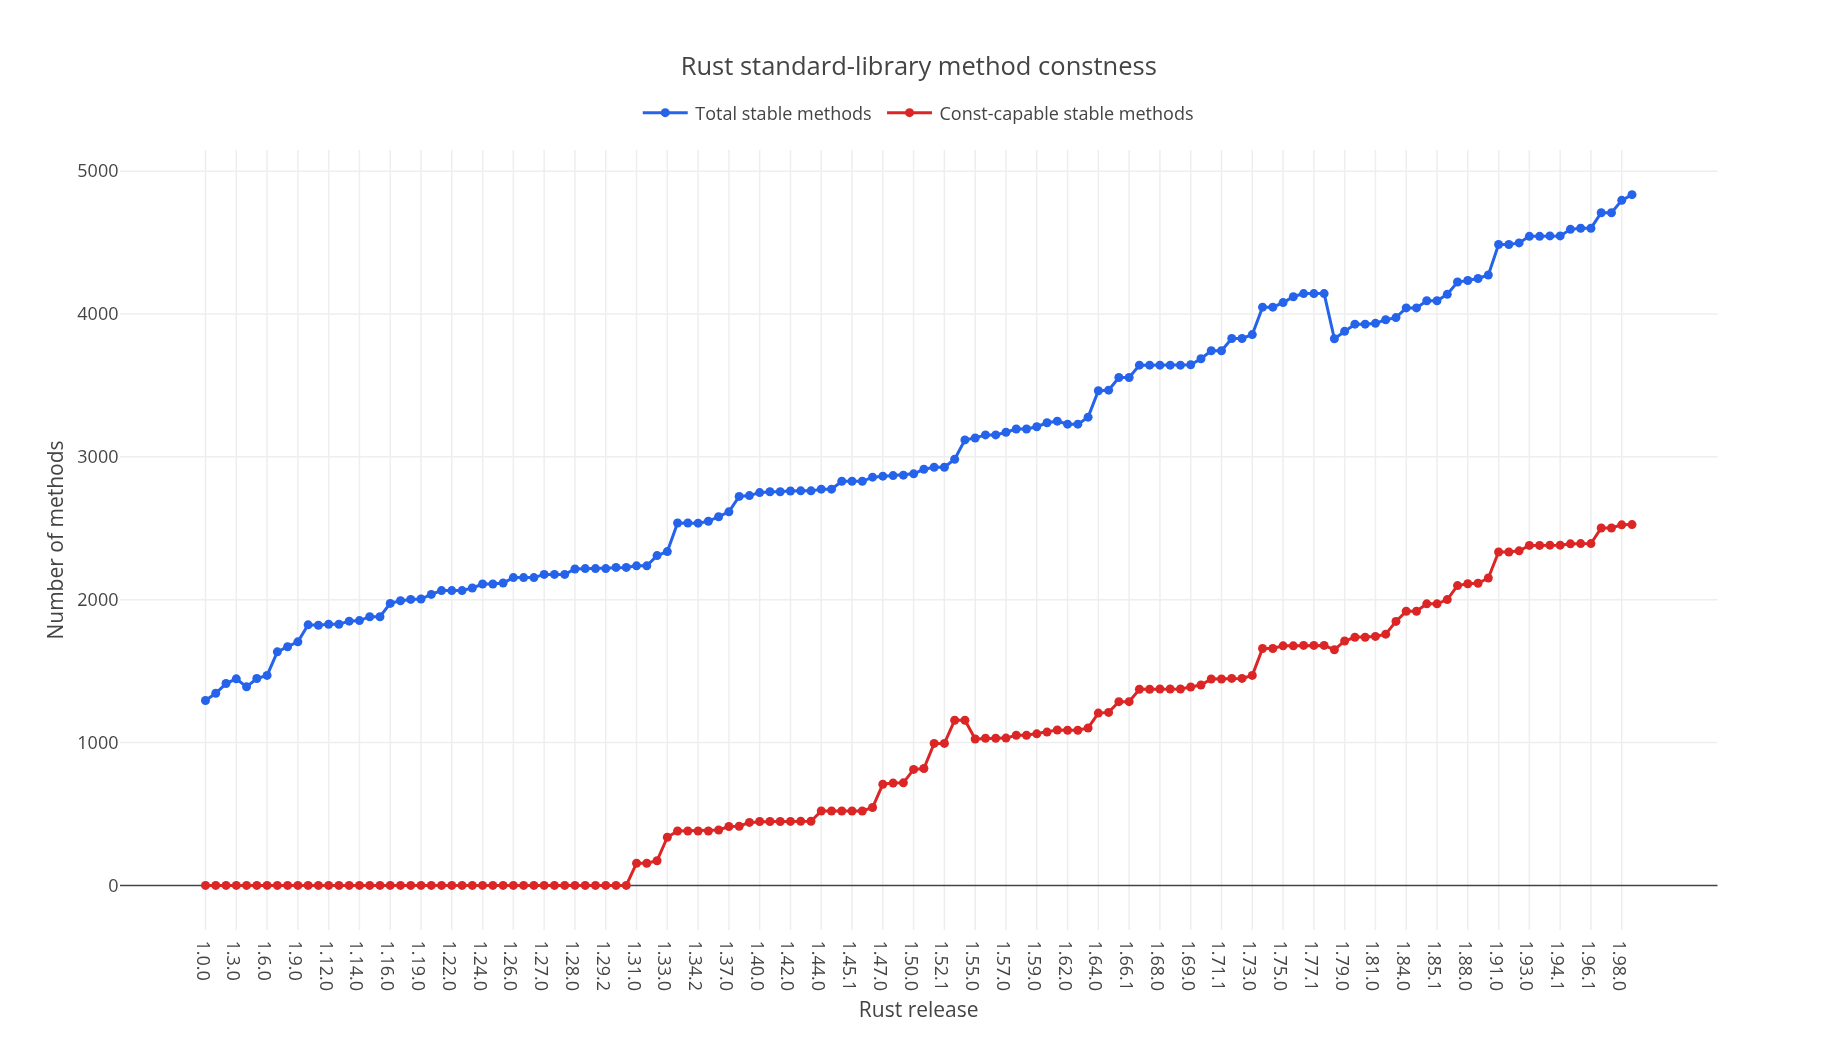
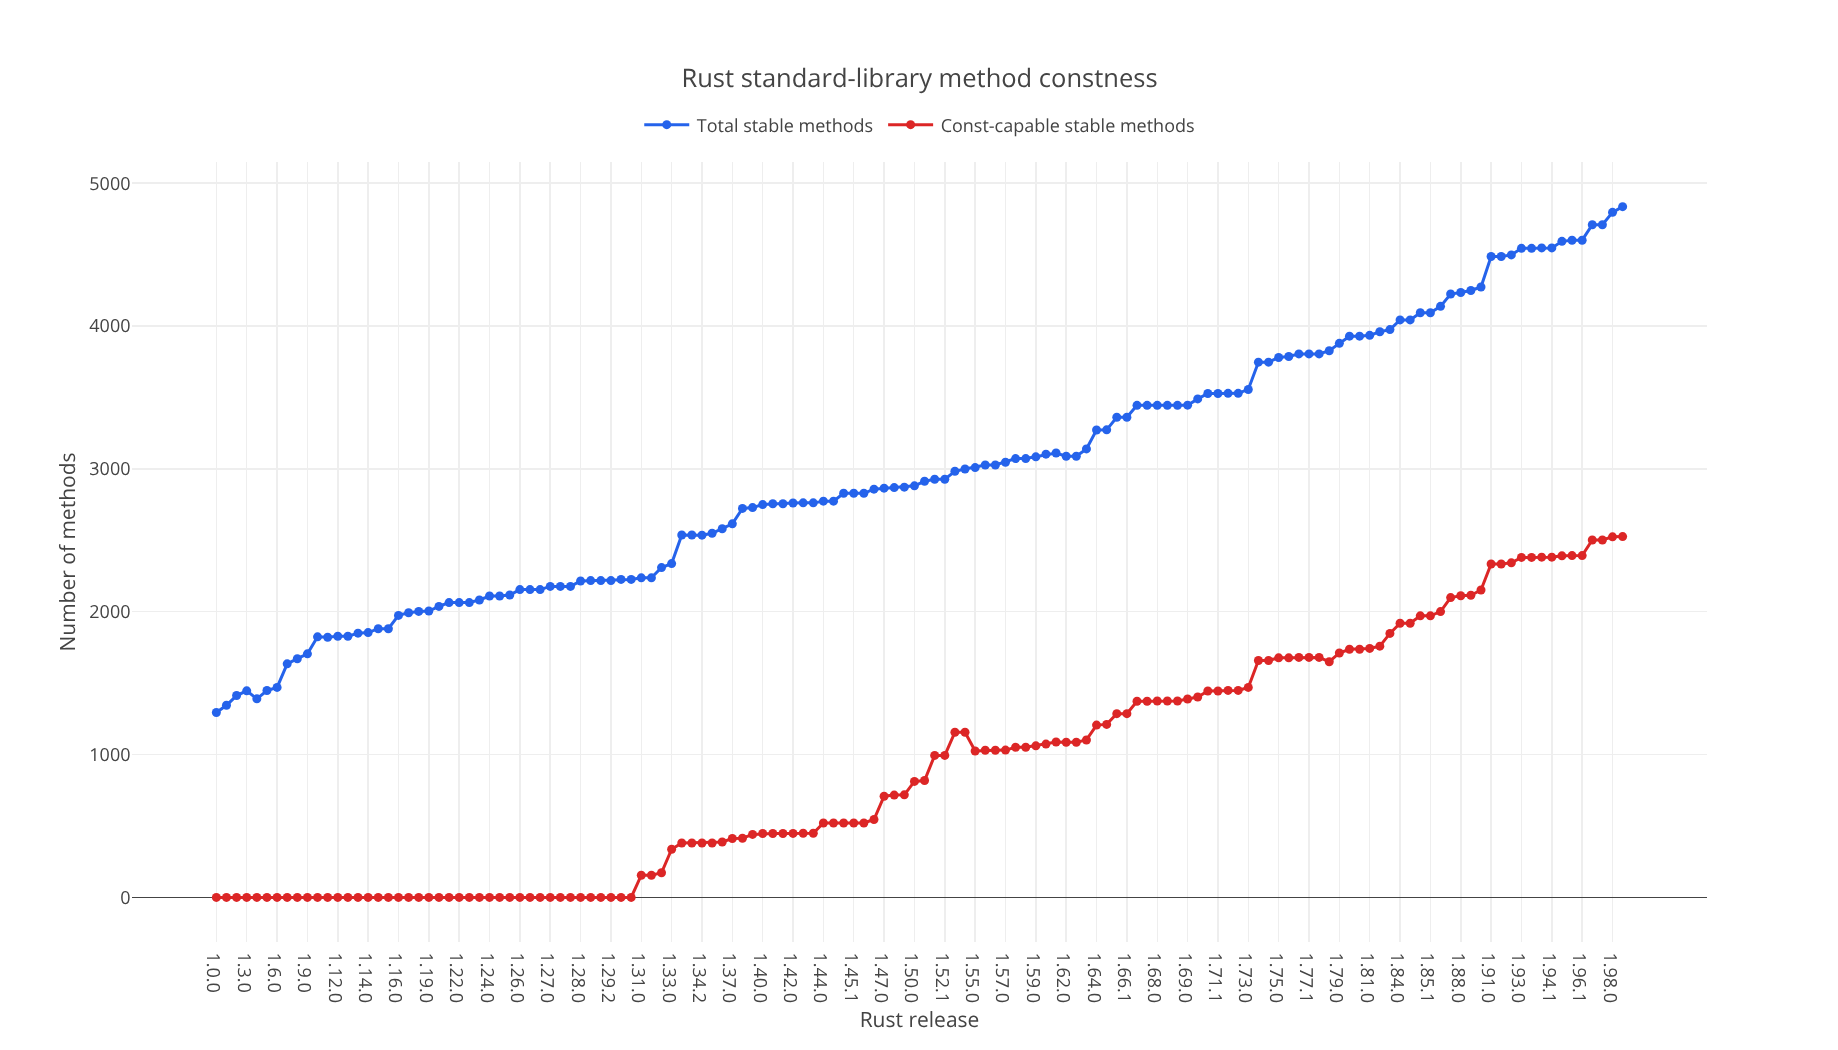
fix: exclude unstable trait methods whose badge follows the summary
Rustdoc 1.54 through 1.77 renders a trait method's stability badge after
the enclosing <summary> instead of directly after the method section, so
unstable trait methods (portable SIMD traits, unstable Iterator methods,
os::wasi extension traits, ...) were counted as stable. Rust 1.78 moved
the badge back next to the section, which made the total look like it
dropped by 316 methods.

Regenerate the dataset and chart: 1.54.0-1.77.2 totals fall by 120-338,
const counts are unchanged, and 1.77.2 -> 1.78.0 is now +22.

diff --git a/tests/fixtures/rustdoc/1.77-trait-methods.html b/tests/fixtures/rustdoc/1.77-trait-methods.html
@@ -1,0 +1,10 @@
+<h2 id="required-methods" class="section-header">Required Methods</h2>
+<div class="methods">
+<details class="toggle method-toggle" open><summary><section id="tymethod.next" class="method"><h4 class="code-header">fn <a href="#tymethod.next" class="fn">next</a>(&amp;mut self) -&gt; Option&lt;Self::Item&gt;</h4></section></summary><div class="docblock"><p>Advances the iterator.</p></div></details>
+</div>
+<h2 id="provided-methods" class="section-header">Provided Methods</h2>
+<div class="methods">
+<details class="toggle method-toggle" open><summary><section id="method.next_chunk" class="method"><h4 class="code-header">fn <a href="#method.next_chunk" class="fn">next_chunk</a>&lt;const N: usize&gt;(&amp;mut self)</h4></section></summary><span class="item-info"><div class="stab unstable"><span class="emoji">🔬</span><span>This is a nightly-only experimental API.</span></div></span><div class="docblock"><p>Advances the iterator by N items.</p></div></details>
+<details class="toggle method-toggle" open><summary><section id="method.size_hint" class="method"><h4 class="code-header">fn <a href="#method.size_hint" class="fn">size_hint</a>(&amp;self) -&gt; (usize, Option&lt;usize&gt;)</h4></section></summary><div class="docblock"><p>Returns the bounds on the remaining length.</p></div></details>
+</div>
+<h2 id="implementors" class="section-header">Implementors</h2>

diff --git a/src/html.rs b/src/html.rs
@@ -171,16 +171,24 @@ fn is_unstable_marker(element: &ElementRef<'_>) -> bool {
 }
 
 fn adjacent_item_metadata<'a>(method: &ElementRef<'a>) -> Option<ElementRef<'a>> {
-    method
-        .next_siblings()
-        .filter_map(ElementRef::wrap)
-        .next()
+    next_sibling_element(method)
+        // Rustdoc 1.54 through 1.77 places trait method metadata after the
+        // enclosing <summary> instead of directly after the method section.
+        .or_else(|| {
+            ElementRef::wrap(method.parent()?)
+                .filter(|parent| parent.value().name() == "summary")
+                .and_then(|summary| next_sibling_element(&summary))
+        })
         .filter(|element| {
             element
                 .value()
                 .classes()
                 .any(|class_name| matches!(class_name, "item-info" | "stability"))
         })
+}
+
+fn next_sibling_element<'a>(element: &ElementRef<'a>) -> Option<ElementRef<'a>> {
+    element.next_siblings().filter_map(ElementRef::wrap).next()
 }
 
 fn method_is_const_stable(method: &ElementRef<'_>) -> bool {
@@ -387,6 +395,24 @@ mod tests {
             MethodCounts {
                 total_methods: 2,
                 const_methods: 1,
+            }
+        );
+        fs::remove_dir_all(root).unwrap();
+    }
+
+    #[test]
+    fn excludes_unstable_trait_methods_whose_badge_follows_the_summary() {
+        let root = fixture_root(
+            "1.77-trait-methods",
+            include_str!("../tests/fixtures/rustdoc/1.77-trait-methods.html"),
+            true,
+        );
+
+        assert_eq!(
+            count_methods_in_html_root(&root, "1.77.2").unwrap(),
+            MethodCounts {
+                total_methods: 2,
+                const_methods: 0,
             }
         );
         fs::remove_dir_all(root).unwrap();
